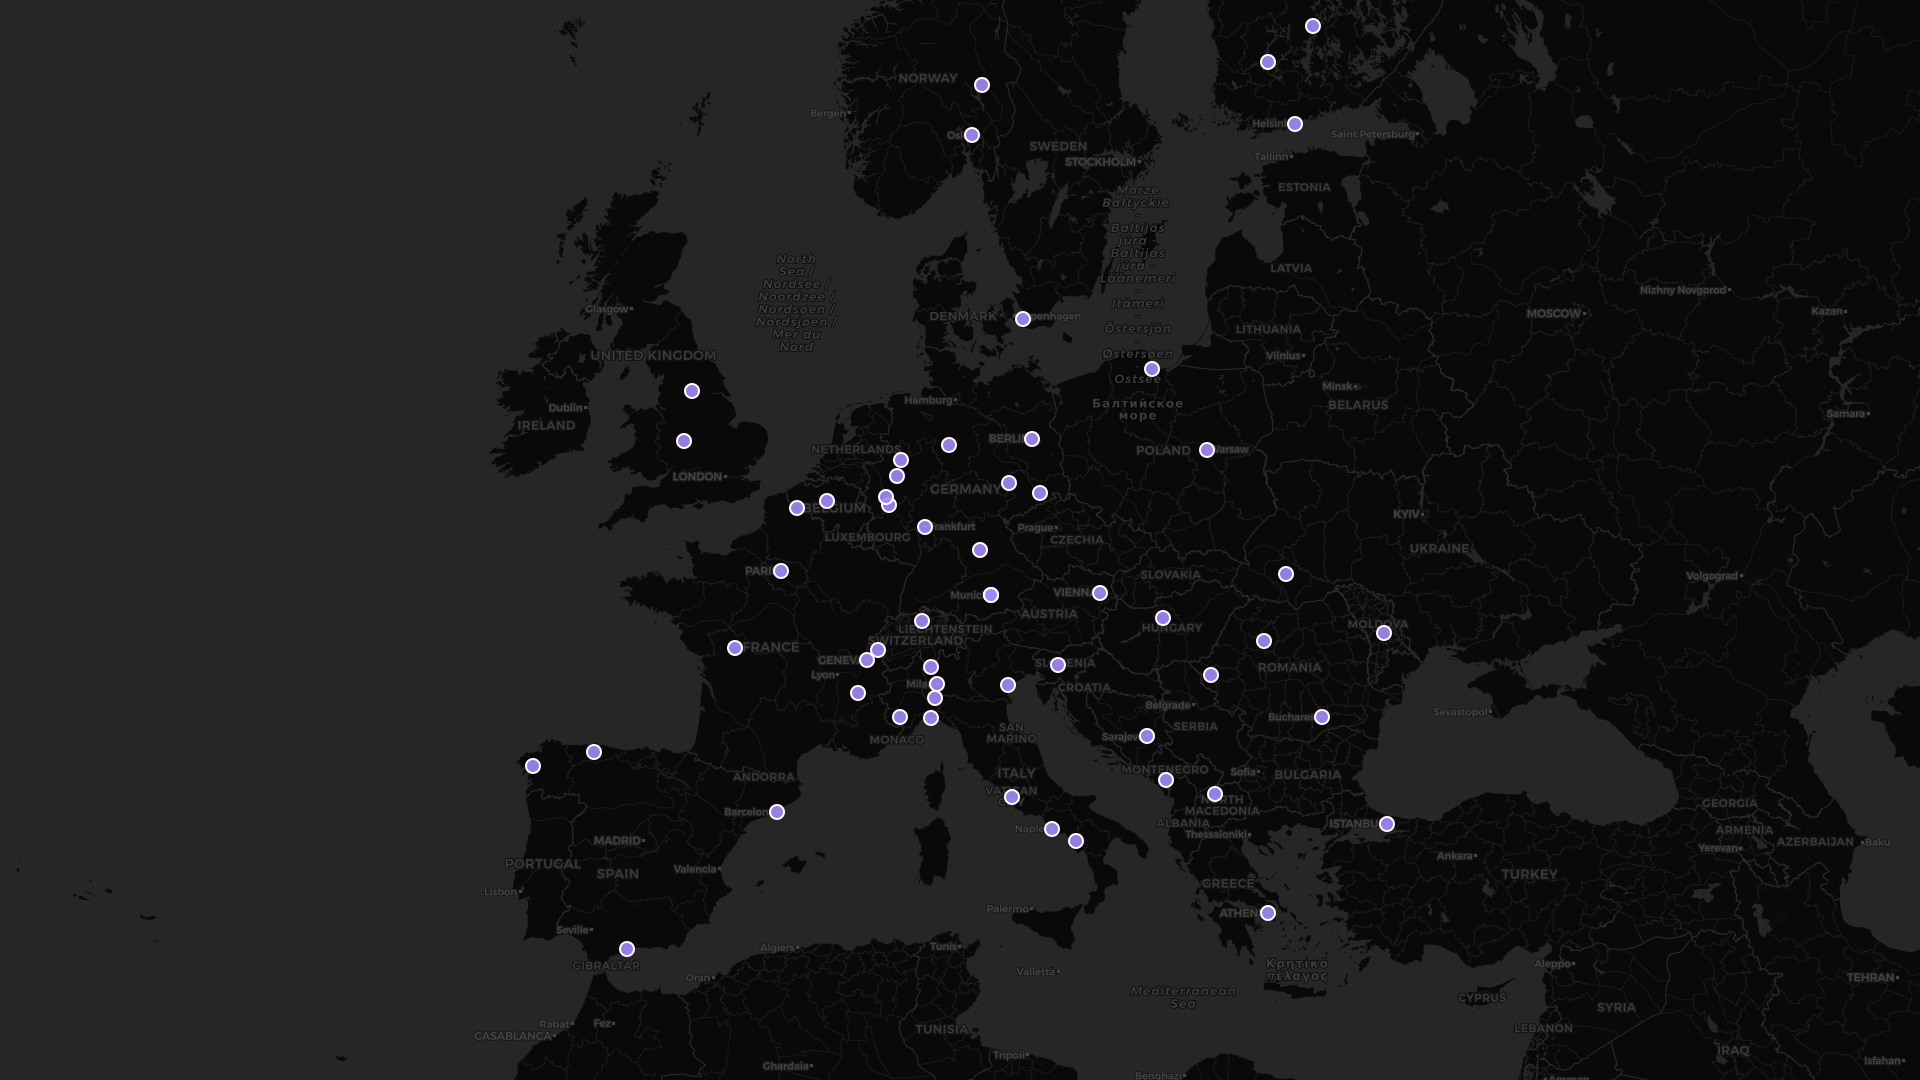
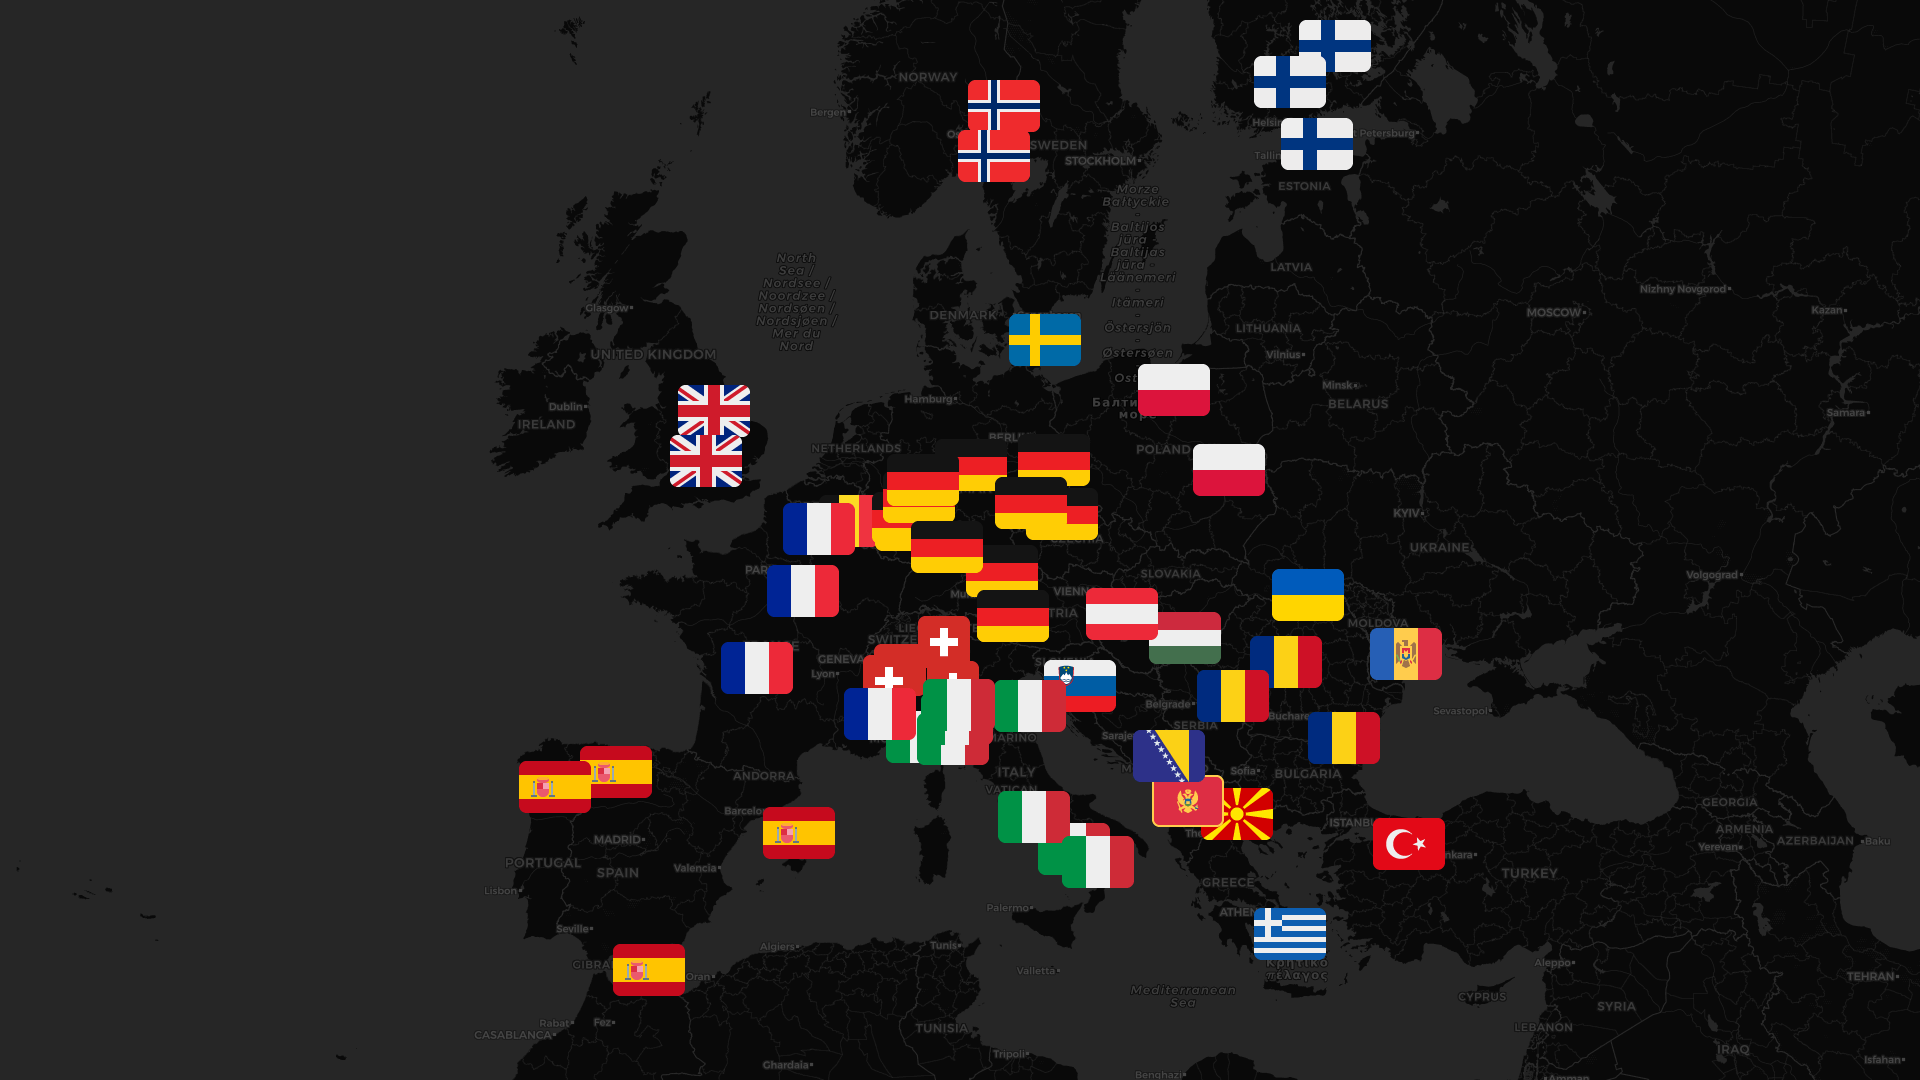
feat: configurable stats + flag markers on Europe map
Stats:
- Add StatType + DISPLAY_STATS to config/participants.ts — choose 1-5
  from: user-groups, countries, timezones, edition, gameplay-hours
- New src/utils/stats.ts resolves each type to value/label/sub/suffix
- InfoLoop, MainEvent, ClosingPreRendered all consume DISPLAY_STATS;
  no more hardcoded arrays in any composition

Map:
- Replace dot markers with real country flag PNGs via Twemoji CDN
- Flags cached locally; one flag per UG city (57 flags for fork1)
- Updated europe-map.png regenerated locally as baseline

diff --git a/scripts/generate-map.ts b/scripts/generate-map.ts
@@ -2,14 +2,13 @@
  * generate-map.ts
  *
  * Generates public/assets/europe-map.png from the UG locations in
- * config/participants.ts using OpenStreetMap tiles + Nominatim geocoding.
+ * config/participants.ts using OpenStreetMap/CartoDB tiles + Nominatim geocoding.
+ * Each UG city is marked with its country flag emoji (via Twemoji PNGs).
  *
  * Usage (from stream root):
  *   npx tsx scripts/generate-map.ts
  *
- * Dependencies (install once or in GHA):
- *   npm install staticmaps
- *   npm install -D tsx
+ * Dependencies (in devDependencies): staticmaps, tsx
  */
 
 import path from "node:path";
@@ -20,27 +19,46 @@ import StaticMaps from "staticmaps";
 import { USER_GROUPS } from "../config/participants.js";
 
 const __dirname = path.dirname(fileURLToPath(import.meta.url));
-const OUT_PATH = path.join(__dirname, "../public/assets/europe-map.png");
+const OUT_PATH   = path.join(__dirname, "../public/assets/europe-map.png");
 
 // ── Config ────────────────────────────────────────────────────────────────────
 const MAP_WIDTH  = 1920;
 const MAP_HEIGHT = 1080;
 const TILE_URL   = "https://{s}.basemaps.cartocdn.com/dark_all/{z}/{x}/{y}{r}.png";
+const FLAG_SIZE  = 28; // rendered px size of each flag marker
 
-// Marker dot written to a temp PNG via inline SVG (staticmaps uses `got` which can't load data URIs)
-const MARKER_SVG = `<svg xmlns="http://www.w3.org/2000/svg" width="18" height="18" viewBox="0 0 18 18">
-  <circle cx="9" cy="9" r="7" fill="#a78bfa" fill-opacity="0.9" stroke="#fff" stroke-width="2"/>
-</svg>`;
-const MARKER_FILE = path.join(os.tmpdir(), "gd-map-marker.svg");
-fs.writeFileSync(MARKER_FILE, MARKER_SVG);
+// ── Flag PNG download via Twemoji ─────────────────────────────────────────────
+// Converts a flag emoji (e.g. 🇧🇪) to its Twemoji CDN filename (e.g. 1f1e7-1f1ea.png)
+function flagToTwemojiName(flag: string): string {
+  return [...flag]
+    .map((ch) => ch.codePointAt(0)!.toString(16).toLowerCase())
+    .join("-") + ".png";
+}
+
+const FLAG_CACHE_DIR = path.join(os.tmpdir(), "gd-flag-cache");
+fs.mkdirSync(FLAG_CACHE_DIR, { recursive: true });
+
+async function getFlagPng(flag: string): Promise<string | null> {
+  const name      = flagToTwemojiName(flag);
+  const cachePath = path.join(FLAG_CACHE_DIR, name);
+  if (fs.existsSync(cachePath)) return cachePath;
+
+  const url = `https://cdn.jsdelivr.net/gh/twitter/twemoji@14.0.2/assets/72x72/${name}`;
+  try {
+    const res = await fetch(url, { headers: { "User-Agent": "community-gameday-stream-map/1.0" } });
+    if (!res.ok) { console.warn(`  ⚠ flag PNG not found for ${flag} (${name})`); return null; }
+    fs.writeFileSync(cachePath, Buffer.from(await res.arrayBuffer()));
+    return cachePath;
+  } catch {
+    return null;
+  }
+}
 
 // ── Nominatim geocoding ───────────────────────────────────────────────────────
 async function geocode(location: string): Promise<[number, number] | null> {
   const url = `https://nominatim.openstreetmap.org/search?q=${encodeURIComponent(location)}&format=json&limit=1`;
   try {
-    const res = await fetch(url, {
-      headers: { "User-Agent": "community-gameday-stream-map/1.0" },
-    });
+    const res  = await fetch(url, { headers: { "User-Agent": "community-gameday-stream-map/1.0" } });
     const data = (await res.json()) as { lat: string; lon: string }[];
     if (!data.length) return null;
     return [parseFloat(data[0].lon), parseFloat(data[0].lat)];
@@ -51,53 +69,60 @@ async function geocode(location: string): Promise<[number, number] | null> {
 
 // ── Main ──────────────────────────────────────────────────────────────────────
 async function main() {
-  // Collect unique locations from USER_GROUPS
-  const locations = Array.from(new Set(USER_GROUPS.map((g) => g.location)));
-  console.log(`Geocoding ${locations.length} unique locations...`);
+  // Build list: unique location+flag pairs (one entry per UG)
+  const entries = USER_GROUPS.map((g) => ({ location: g.location, flag: g.flag }));
+  console.log(`Geocoding ${entries.length} UG locations...`);
 
-  const coords: [number, number][] = [];
-  for (const loc of locations) {
-    // Nominatim rate-limit: max 1 req/s
-    await new Promise((r) => setTimeout(r, 1100));
-    const coord = await geocode(loc);
+  type MarkerEntry = { coord: [number, number]; flag: string };
+  const markers: MarkerEntry[] = [];
+
+  for (const { location, flag } of entries) {
+    await new Promise((r) => setTimeout(r, 1100)); // Nominatim: 1 req/s
+    const coord = await geocode(location);
     if (coord) {
-      coords.push(coord);
-      console.log(`  ✓ ${loc} → ${coord[1].toFixed(4)}, ${coord[0].toFixed(4)}`);
+      markers.push({ coord, flag });
+      console.log(`  ✓ ${flag}  ${location}`);
     } else {
-      console.warn(`  ✗ ${loc} — not found`);
+      console.warn(`  ✗ ${location} — geocode failed`);
     }
   }
 
-  if (!coords.length) {
-    console.error("No coordinates resolved — aborting.");
-    process.exit(1);
+  if (!markers.length) { console.error("No markers — aborting."); process.exit(1); }
+
+  // Download flag PNGs (cached)
+  console.log("\nFetching flag PNGs...");
+  const flagPaths: Map<string, string | null> = new Map();
+  const uniqueFlags = Array.from(new Set(markers.map((m) => m.flag)));
+  for (const flag of uniqueFlags) {
+    if (!flagPaths.has(flag)) {
+      flagPaths.set(flag, await getFlagPng(flag));
+    }
   }
 
-  // Build the map
+  // Build map
   const map = new StaticMaps({
-    width: MAP_WIDTH,
-    height: MAP_HEIGHT,
+    width: MAP_WIDTH, height: MAP_HEIGHT,
     tileUrl: TILE_URL,
     tileSubdomains: ["a", "b", "c"],
     tileSize: 256,
   });
 
-  // Add a dot marker for each city
-  for (const coord of coords) {
+  for (const { coord, flag } of markers) {
+    const imgPath = flagPaths.get(flag);
+    if (!imgPath) continue;
     map.addMarker({
       coord,
-      img: MARKER_FILE,
-      width: 18,
-      height: 18,
-      offsetX: 9,
-      offsetY: 9,
+      img:     imgPath,
+      width:   FLAG_SIZE,
+      height:  FLAG_SIZE,
+      offsetX: Math.round(FLAG_SIZE / 2),
+      offsetY: Math.round(FLAG_SIZE / 2),
     });
   }
 
-  // Auto-fit the map to all markers with some padding
   await map.render();
   await map.image.save(OUT_PATH);
-  console.log(`\n✅ Map saved to: ${OUT_PATH}`);
+  console.log(`\n✅ Map saved → ${OUT_PATH}  (${markers.length} flags)`);
 }
 
 main().catch((e) => { console.error(e); process.exit(1); });

diff --git a/src/compositions/01-main-event/MainEvent.tsx b/src/compositions/01-main-event/MainEvent.tsx
@@ -76,11 +76,10 @@ import {
   SUPPORT_VIDEO_AVAILABLE,
   CODES_TIME,
   GAME_START as GAME_START_LABEL,
-  EDITION,
   EDITION_LABEL,
-  TIMEZONE_COUNT,
 } from "../../../config/event";
-import { AWS_SUPPORTERS as CONFIG_AWS, ORGANIZERS, USER_GROUPS, COUNTRIES, type UserGroup, getOrganizerRole, getOrganizerUserGroup } from "../../../config/participants";
+import { AWS_SUPPORTERS as CONFIG_AWS, ORGANIZERS, USER_GROUPS, COUNTRIES, DISPLAY_STATS, type UserGroup, getOrganizerRole, getOrganizerUserGroup } from "../../../config/participants";
+import { resolveStats } from "../../utils/stats";
 
 // ── Derived from config ──────────────────────────────────────────────────────
 const ALL_PEOPLE    = [...ORGANIZERS, ...CONFIG_AWS];
@@ -2591,28 +2590,29 @@ export const MainEvent: React.FC = () => {
   // Suppress sidebar/speakers during video, Linda's thank-you, and the dark hold up to collab start
   const isVideoScene   = frame >= S.VIDEO_IN && frame < S.COLLAB_IN + COLLAB_PA; // hide sidebar during Phase A too
 
-  const STATS: StatDef[] = [
-    {
-      value: String(USER_GROUPS.length), label: "User Groups", sub: "Playing simultaneously across Europe",
-      color: GD_ACCENT, icon: <UsersIcon s={32} c={GD_ACCENT} />,
-      inFrame: S.STAT1_IN, outFrame: S.STAT1_OUT,
-    },
-    {
-      value: String(COUNTRIES.length), label: "Countries", sub: "United for the first time",
-      color: GD_VIOLET, icon: <GlobeIcon s={32} c={GD_VIOLET} />,
-      inFrame: S.STAT2_IN, outFrame: S.STAT2_OUT,
-    },
-    {
-      value: String(TIMEZONE_COUNT), label: "Timezones", sub: "UTC+0 through UTC+3",
-      color: GD_PINK, icon: <ClockIcon s={32} c={GD_PINK} />,
-      inFrame: S.STAT3_IN, outFrame: S.STAT3_OUT,
-    },
-    {
-      value: EDITION, label: "Edition Ever", sub: "History is being made today",
-      color: GD_GOLD, icon: <StarIcon s={32} c={GD_GOLD} />,
-      inFrame: S.STAT4_IN, outFrame: S.STAT4_OUT,
-    },
+  // Map DISPLAY_STATS entries to the 4 fixed timing slots.
+  // Slots without a matching stat entry are simply skipped (BigStat returns null out of range).
+  const STAT_SLOTS = [
+    { inFrame: S.STAT1_IN, outFrame: S.STAT1_OUT },
+    { inFrame: S.STAT2_IN, outFrame: S.STAT2_OUT },
+    { inFrame: S.STAT3_IN, outFrame: S.STAT3_OUT },
+    { inFrame: S.STAT4_IN, outFrame: S.STAT4_OUT },
   ];
+  const STAT_ICON_MAP: Record<string, { icon: React.ReactNode; color: string }> = {
+    "user-groups":    { icon: <UsersIcon s={32} c={GD_ACCENT}  />, color: GD_ACCENT  },
+    "countries":      { icon: <GlobeIcon s={32} c={GD_VIOLET}  />, color: GD_VIOLET  },
+    "timezones":      { icon: <ClockIcon s={32} c={GD_PINK}    />, color: GD_PINK    },
+    "edition":        { icon: <StarIcon  s={32} c={GD_GOLD}    />, color: GD_GOLD    },
+    "gameplay-hours": { icon: <ClockIcon s={32} c={GD_ORANGE}  />, color: GD_ORANGE  },
+  };
+  const STATS: StatDef[] = resolveStats(DISPLAY_STATS).slice(0, 4).map((s, i) => {
+    const iconMeta = STAT_ICON_MAP[DISPLAY_STATS[i]] ?? { icon: <StarIcon s={32} c={GD_GOLD} />, color: GD_GOLD };
+    return {
+      value: s.v, label: s.l, sub: s.sub,
+      color: iconMeta.color, icon: iconMeta.icon,
+      inFrame: STAT_SLOTS[i].inFrame, outFrame: STAT_SLOTS[i].outFrame,
+    };
+  });
 
   return (
     <AbsoluteFill style={{ fontFamily: FF, background: GD_DARK }}>

diff --git a/src/compositions/00-preshow/InfoLoop.tsx b/src/compositions/00-preshow/InfoLoop.tsx
@@ -61,9 +61,13 @@ import {
   GM_INSTRUCTIONS_TIME,
   CODES_TIME,
   EDITION_LABEL,
-  TIMEZONE_COUNT,
+
 } from "../../../config/event";
-import { USER_GROUPS, COUNTRIES, ORGANIZERS, AWS_SUPPORTERS, type UserGroup, getOrganizerRole, getOrganizerUserGroup } from "../../../config/participants";
+import { USER_GROUPS, ORGANIZERS, AWS_SUPPORTERS, DISPLAY_STATS, type UserGroup, getOrganizerRole, getOrganizerUserGroup } from "../../../config/participants";
+import { resolveStats } from "../../utils/stats";
+
+// Colours assigned left-to-right to whatever stats are in DISPLAY_STATS
+const STAT_COLORS_PRESHOW = [GD_GOLD, GD_PINK, GD_VIOLET, GD_ORANGE, GD_ACCENT];
 
 const ALL_PEOPLE    = [...ORGANIZERS, ...AWS_SUPPORTERS];
 const HOST          = ALL_PEOPLE.find((p) => p.streamRole === "host")!;
@@ -403,12 +407,7 @@ const SlideHero: React.FC = () => {
   const timerE = useStagger(8, 8);
   const statsE = useStagger(12, 8);
 
-  const stats = [
-    { v: String(USER_GROUPS.length), l: "User Groups", c: GD_GOLD },
-    { v: String(COUNTRIES.length), l: "Countries", c: GD_PINK },
-    { v: String(TIMEZONE_COUNT), l: "Timezones", c: GD_VIOLET },
-    { v: "1st", l: "Edition", c: GD_ORANGE },
-  ];
+  const stats = resolveStats(DISPLAY_STATS).map((s, i) => ({ v: s.v, l: s.l, c: STAT_COLORS_PRESHOW[i % STAT_COLORS_PRESHOW.length] }));
 
   return (
     <AbsoluteFill style={{ display: "flex", flexDirection: "column", alignItems: "center", justifyContent: "center" }}>
@@ -1375,12 +1374,7 @@ const SlideFinalCountdown: React.FC = () => {
 // SLIDE 16 - Stats V3
 // ═══════════════════════════════════════════════════════════════════════════════
 const SlideStats: React.FC = () => {
-  const stats = [
-    { v: String(USER_GROUPS.length), l: "User Groups", sub: "Cities across Europe", c: GD_GOLD },
-    { v: String(COUNTRIES.length), l: "Countries", sub: "From Iceland to Turkey", c: GD_PINK },
-    { v: String(TIMEZONE_COUNT), l: "Timezones", sub: "UTC+0 through UTC+3", c: GD_VIOLET },
-    { v: "1st", l: "Edition", sub: "History being made today", c: GD_ORANGE },
-  ];
+  const stats = resolveStats(DISPLAY_STATS).map((s, i) => ({ v: s.v, l: s.l, sub: s.sub, c: STAT_COLORS_PRESHOW[i % STAT_COLORS_PRESHOW.length] }));
   const mapE = useStagger(5, 8);
   return (
     <AbsoluteFill style={{ display: "flex", flexDirection: "column", alignItems: "center", justifyContent: "center" }}>

diff --git a/src/compositions/03-closing/ClosingPreRendered.tsx b/src/compositions/03-closing/ClosingPreRendered.tsx
@@ -26,8 +26,9 @@ import {
   TYPOGRAPHY,
 } from "../../design";
 import { formatTime } from "../../utils/timing";
-import { USER_GROUPS, ORGANIZERS, AWS_SUPPORTERS, type UserGroup, getOrganizerRole } from "../../../config/participants";
-import { EVENT_DATE, EVENT_NAME, TIMEZONE_COUNT, GAMEPLAY_HOURS } from "../../../config/event";
+import { USER_GROUPS, ORGANIZERS, AWS_SUPPORTERS, DISPLAY_STATS, type UserGroup, getOrganizerRole } from "../../../config/participants";
+import { EVENT_DATE, EVENT_NAME } from "../../../config/event";
+import { resolveStats } from "../../utils/stats";
 
 // Format EVENT_DATE ("2026-03-17") → "17 MARCH 2026"
 const [_ey, _em, _ed] = EVENT_DATE.split("-").map(Number);
@@ -185,11 +186,9 @@ const HeroIntro: React.FC<{ frame: number }> = ({ frame }) => {
   // ── SCENE 2: Stats cascade (frames 160-379)  -  overlaps with scene 1 for crossfade ──
   const s2Opacity = interpolate(frame, [160, 195, 350, 379], [0, 1, 1, 0], { extrapolateLeft: "clamp", extrapolateRight: "clamp" });
   const STATS = [
-    { value: USER_GROUPS.length, label: "USER GROUPS", suffix: "+", delay: 190 },
-    { value: COUNTRIES.length, label: "COUNTRIES", suffix: "+", delay: 210 },
-    { value: GAMEPLAY_HOURS, label: "HOURS OF GAMEPLAY", suffix: "", delay: 230 },
-    { value: 1, label: "EPIC DAY", suffix: "", delay: 250 },
-    { value: TIMEZONE_COUNT, label: "TIMEZONES", suffix: "+", delay: 270 },
+    ...resolveStats(DISPLAY_STATS).map((s, i) => ({
+      value: s.n, label: s.l.toUpperCase(), suffix: s.suffix, delay: 190 + i * 20,
+    })),
   ];
 
   // ── SCENE 3: Flag parade (frames 360-549)  -  overlaps with scene 2 ──

diff --git a/src/utils/stats.ts b/src/utils/stats.ts
@@ -1,0 +1,34 @@
+/**
+ * Stats resolver — maps StatType keys to display values.
+ *
+ * Imported by InfoLoop, MainEvent, and ClosingPreRendered so that DISPLAY_STATS
+ * from participants.ts drives all "By the Numbers" sections automatically.
+ */
+
+import { TIMEZONE_COUNT, EDITION, GAMEPLAY_HOURS } from "../../config/event";
+import { USER_GROUPS, COUNTRIES, type StatType } from "../../config/participants";
+
+export interface StatItem {
+  /** Display string (e.g. "57", "1st") */
+  v: string;
+  /** Numeric value for count-up animations */
+  n: number;
+  /** Short label */
+  l: string;
+  /** Sub-label / description */
+  sub: string;
+  /** Suffix appended in count-up (e.g. "+", "st", "") */
+  suffix: string;
+}
+
+const STAT_DEFS: Record<StatType, StatItem> = {
+  "user-groups":    { v: String(USER_GROUPS.length), n: USER_GROUPS.length, l: "User Groups",      sub: "Cities across Europe",       suffix: "+" },
+  "countries":      { v: String(COUNTRIES.length),   n: COUNTRIES.length,   l: "Countries",         sub: "From Iceland to Turkey",     suffix: "+" },
+  "timezones":      { v: String(TIMEZONE_COUNT),     n: TIMEZONE_COUNT,     l: "Timezones",         sub: "UTC+0 through UTC+3",        suffix: "+" },
+  "edition":        { v: EDITION,                    n: 1,                  l: "Edition",           sub: "History being made today",   suffix: "st" },
+  "gameplay-hours": { v: String(GAMEPLAY_HOURS),     n: GAMEPLAY_HOURS,     l: "Hours of Gameplay", sub: "Non-stop community action",  suffix: "" },
+};
+
+export function resolveStats(types: StatType[]): StatItem[] {
+  return types.map((t) => STAT_DEFS[t]);
+}

diff --git a/config/participants.ts b/config/participants.ts
@@ -211,3 +211,27 @@ export const AWS_SUPPORTERS: Organizer[] = [
   { name: "Uliana", jobTitle: "Community Manager, AWS",             flag: "🌍", face: "assets/faces/uliana.jpg", type: "aws" },
   { name: "Natalia", jobTitle: "DevEx Community Manager, AWS",      flag: "🌍", face: "assets/faces/natalia.jpg", type: "aws" },
 ];
+
+// ── Display Stats Config ────────────────────────────────────────────────────
+// Pick which 1–5 stats appear in the "By the Numbers" sections.
+// Values are resolved automatically from participants + event config.
+//
+// Available options:
+//   "user-groups"    → USER_GROUPS.length   (UG count)
+//   "countries"      → COUNTRIES.length     (unique flags)
+//   "timezones"      → TIMEZONE_COUNT       (from event.ts)
+//   "edition"        → EDITION              (from event.ts, e.g. "1st")
+//   "gameplay-hours" → GAMEPLAY_HOURS       (from event.ts)
+export type StatType =
+  | "user-groups"
+  | "countries"
+  | "timezones"
+  | "edition"
+  | "gameplay-hours";
+
+export const DISPLAY_STATS: StatType[] = [
+  "user-groups",
+  "countries",
+  "timezones",
+  "edition",
+];
